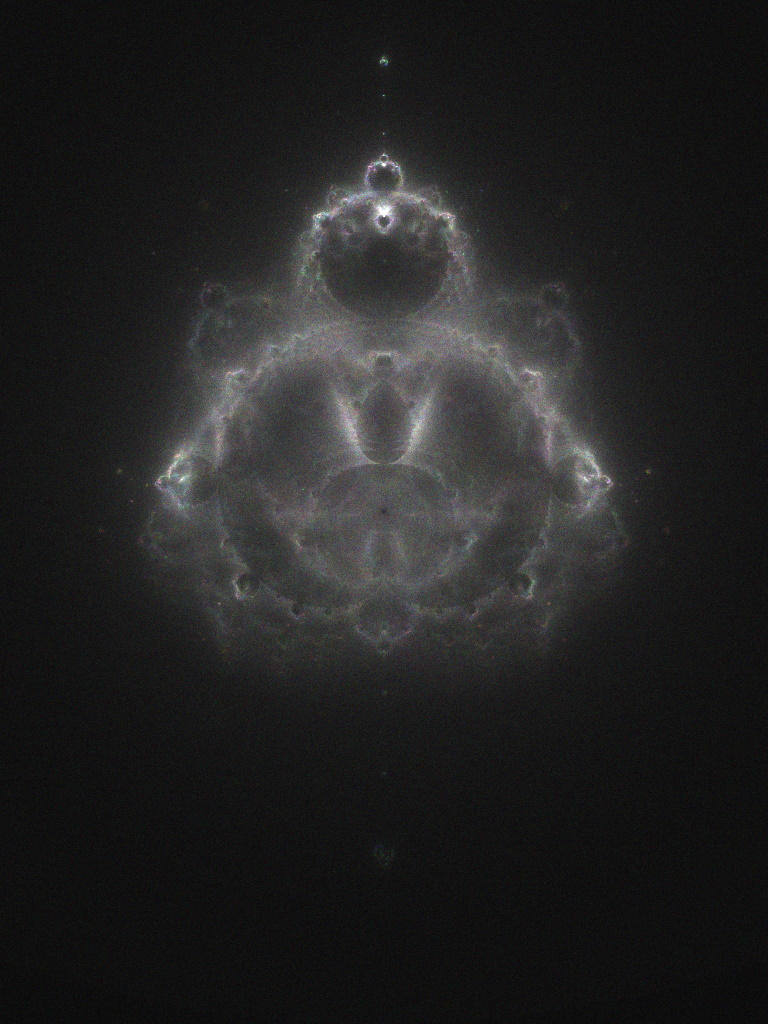
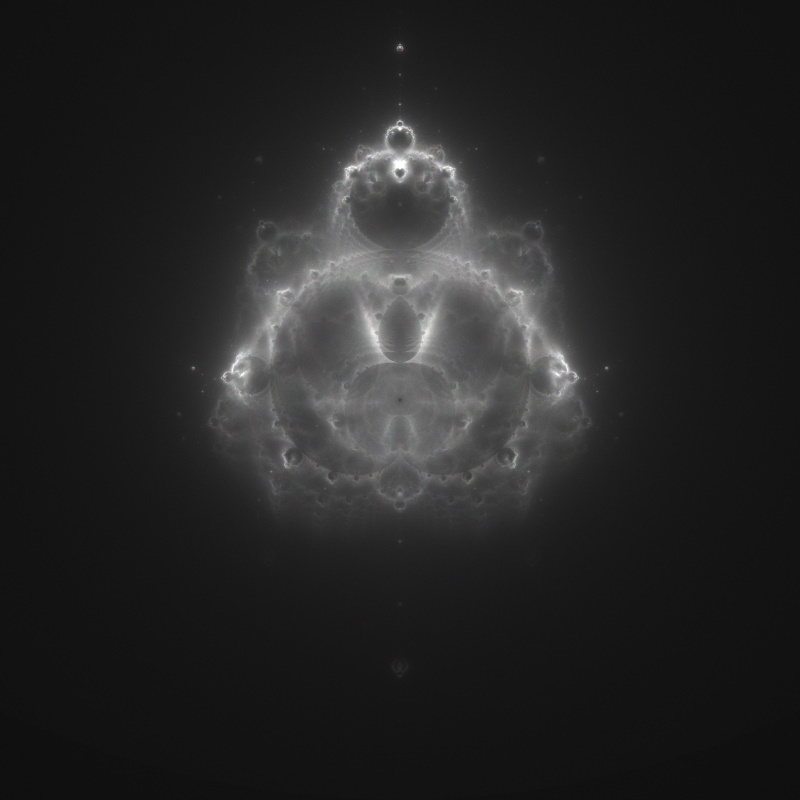
Update sample image and README.md.

Changed region(s): [[0.1875, 0.1562, 0.8125, 0.625]]

diff --git a/README.md b/README.md
@@ -4,7 +4,9 @@
 
 This is a hobby ASP.NET Core Web API project for rendering
 [Buddhabrot](https://en.wikipedia.org/wiki/Buddhabrot) images in parallel. It's
-written in C# and uses Docker to store images to SQL Server and log to Seq.
+written in C# and uses Docker to store images to SQL Server and log to Seq. The
+sample image was originally 4096x4096 with 200,000,000 sample points and 1,000 
+maximum iterations. It took about four minutes to plot on an eight core machine.
 
 The plotting is currently noisy and I'm still tinkering with how to achieve the
 really cool images that you see in other people's projects. This is a work in
